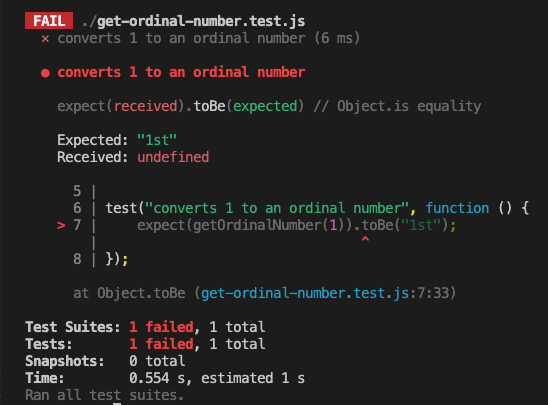
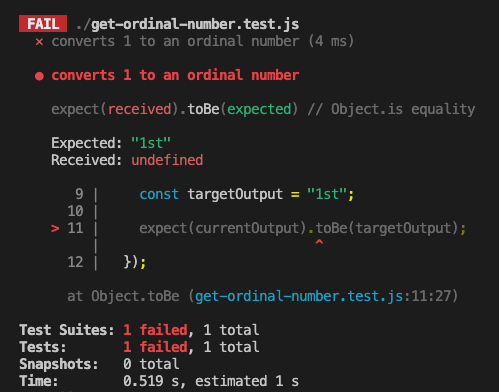
further tidyup

diff --git a/content/js1/blocks/generalise/index.md b/content/js1/blocks/generalise/index.md
@@ -16,7 +16,7 @@ Here are some examples of this pattern,
 
 1st, 11**th**, 21st, 31st, 41st,...
 
-All the numbers ending in 1 will continue to end in ` "st"`, with the exception of 11.
+All the numbers ending in 1 will continue to end in `"st"`, with the exception of 11.
 11 is slightly different and ends with a `"th"`.
 
 We can now create a test case to check that `getOrdinalNumber` works for _any_ number ending in 1.
@@ -39,7 +39,7 @@ We've also updated the test description because we're adding more assertions and
 
 {{<note type="exercise" title="exercise">}}
 
-What do you think the test output will be when the test runs? Remember to think in terms of targetOutput and currentOutput.
+What do you think the test output will be when the test runs? Remember to think in terms of `targetOutput` and `currentOutput`.
 
 How can you approach implementing the logic for this function each time?
 
@@ -62,7 +62,8 @@ A -- false --> C[return num + st]
 ```
 
 Most of the time we just need to return the number with "st" on the end.
-However, 11 is an outlier: it doesn't conform to the pattern.
+
+However, 11 is an outlier: it doesn't conform to this pattern.
 
 So our current strategy for this test case will be to check if the number is 11 first and do something differently ( return `"11th"` ): otherwise we return the default value of num with `"st"` on the end.
 
@@ -89,8 +90,8 @@ Now, we've handled any numerical inputs ending in 1. We can try to build up func
 
 We can start by adding a test case that only asserts something about the input of 2.
 
-We cannot add this assertion to the first test case - because the first test case checks for inputs that end in a 1.
-To check this different case, we need to introduce a new test case.
+We cannot add this assertion to the first test case. The first test case checks for inputs that end in a 1.
+To check the case when the input ends in 2, we need to introduce a new test case.
 
 ```js {linenos=table,hl_lines=["14-16"],linenostart=1}
 function getOrdinalNumber(num) {
@@ -115,14 +116,16 @@ test("converts 2 to an ordinal number", function () {
 
 {{<tab name="exercise 1">}}
 
-{{<note type="exercise" title="Predict">}}
+### Check the test output
 
-Predict what the feedback will be for the test case `"converts 2 to an ordinal number"`?
-Does it succeed or fail, if so why?
+Here's the test feedback for the test above:
+![second-case-fail](second-case-fail.png)
+
+**Play computer** with `getOrdinalNumber` when it is called with an input of 2
+Double check you agree with the test feedback in this case.
 
 Before coding, outline a strategy for handling the second test case.
 
-{{</note>}}
 {{</tab>}}
 
 {{<tab name="exercise 2">}}

diff --git a/content/js1/blocks/cases/index.md b/content/js1/blocks/cases/index.md
@@ -23,10 +23,8 @@ const currentOutput = getOrdinalNumber(input);
 const targetOutput = "1st";
 ```
 
-To work out how to write a test using Jest, we can check out the documentation.
-
-We can create a file called `get-ordinal-number.js` and in there write our first test.
-We can figure out how to write this test using the Jest documentation. We can start writing a test:
+We can create a file called `get-ordinal-number.js` and write our first test there.
+We can use [documentation](https://jestjs.io/docs/getting-started) to work out how to write our first test using Jest.
 
 get-ordinal-number.test.js
 
@@ -36,7 +34,7 @@ test("converts 1 to an ordinal number", function () {});
 
 Let's break down this syntax.
 
-The `test` function is part of the Jest API: it is an interface we use to perform a particular task.
+The `test` function is part of the Jest API, a function we use to perform a particular task.
 In particular, we'll use `test` to define a test case.
 
 Let's break down the arguments we're passing to `test`:
@@ -73,11 +71,15 @@ The function `toBe` is used to check that the current output of `getOrdinalNumbe
 `toBe` is just one example of a function called a [matcher](https://jestjs.io/docs/using-matchers).
 A matcher is a function we use to compare values in Jest.
 
-So we can combine this with the test we wrote earlier, to get our first complete test case:
+So the whole test looks like this:
 
 ```js
 test("converts 1 to an ordinal number", function () {
-  expect(getOrdinalNumber(1)).toBe("1st");
+  const input = 1;
+  const currentOutput = getOrdinalNumber(input);
+  const targetOutput = "1st";
+
+  expect(currentOutput).toBe(targetOutput);
 });
 ```
 

diff --git a/content/js1/blocks/packages/index.md b/content/js1/blocks/packages/index.md
@@ -81,7 +81,7 @@ week-4-example
 
 After running the command, we now have a directory called `node_modules` in our project too.
 
-> The `node_modules` directory contains all the code from the dependencies like Jest we installed in our project. You won't need to look inside the node_modules directory - you just need to know it contains the code for Jest and any other libraries we install in our project.
+> The `node_modules` directory contains all the code from the{{<tooltip title="dependencies">}}A **dependency** is a package that your project depends upon.{{</tooltip>}}we installed in our project. You won't need to look inside the `node_modules directory` - you just need to know it contains the code for Jest and any other libraries we install in our project.
 
 The `package.json` should also be updated:
 
@@ -101,11 +101,10 @@ We've now got some additional information inside the `package.json`:
 "devDependencies" : "^29.5.0"
 ```
 
-A **dependency** is a package that your project depends upon. Now that we're using Jest in our project, we **depend** on the Jest package. In particular, a **devDependency** is a **developer dependency** - a **dependency** we use for developing and testing our application.
-
 {{<note type="exercise" title="exercise">}}
 
 ### 🔍 Figure it out
 
 There should be one more change to your project after running the installation command. Use documentation or ChatGPT to figure out what this change is for.
+
 {{</note>}}

diff --git a/content/js1/blocks/feedback/index.md b/content/js1/blocks/feedback/index.md
@@ -26,7 +26,11 @@ looks like this
 
 ```js
 test("converts 1 to an ordinal number", function () {
-  expect(getOrdinalNumber(1)).toBe("1st");
+  const input = 1;
+  const currentOutput = getOrdinalNumber(input);
+  const targetOutput = "1st";
+
+  expect(currentOutput).toBe(targetOutput);
 });
 ```
 
@@ -75,8 +79,9 @@ Jest defines **Expected** and **Received** in the test feedback:
 
 {{<note type="exercise" title="exercise">}}
 
-What are the values of Expected and Received in the test output?
-How do Received and Expected match up with the targetOutput and expectedOutput ?
+What are the values of **Expected** and **Received** in the test output?
+
+How do **Received** and **Expected** match up with the targetOutput and expectedOutput ?
 
 What line number did the test case fail on?
 
@@ -84,7 +89,7 @@ What line number did the test case fail on?
 
 ### Passing `getOrdinalNumber`
 
-We can now make the test pass by implementing functionality for the first test case.
+We can now pass the test by implementing functionality for the first test case.
 We could write the following:
 
 get-ordinal-number.test.js
@@ -95,6 +100,10 @@ function getOrdinalNumber() {
 }
 
 test("converts 1 to an ordinal number", function () {
-  expect(getOrdinalNumber(1)).toBe("1st");
+  const input = 1;
+  const currentOutput = getOrdinalNumber(input);
+  const targetOutput = "1st";
+
+  expect(currentOutput).toBe(targetOutput);
 });
 ```

diff --git a/content/js1/blocks/api/index.md b/content/js1/blocks/api/index.md
@@ -10,7 +10,7 @@ emoji= '🧩'
 
 With Jest installed, we need to figure out _how to use the Jest framework_ to write tests.
 
-Jest provides an {{<tooltip title="API">}}An **API** is a boundary between a programmer and an application, enabling a programmer to use an application’s functionality without being concerned with how the application was built.{{</tooltip>}} so we can use its functionality.
+Jest provides an {{<tooltip title="API">}}An **API** is a boundary between a programmer and an application, enabling a programmer to use an application’s functionality without being concerned with how the application was built.{{</tooltip>}} so we can write tests.
 
 API stands for
 

diff --git a/content/js1/blocks/framework/index.md b/content/js1/blocks/framework/index.md
@@ -10,7 +10,7 @@ emoji= '🧩'
 
 To implement a function like `getOrdinalNumber` we can try specifying a single case:
 
-- Case 1 💼
+### Case 1 💼
 
 ```js
 const input = 1;
